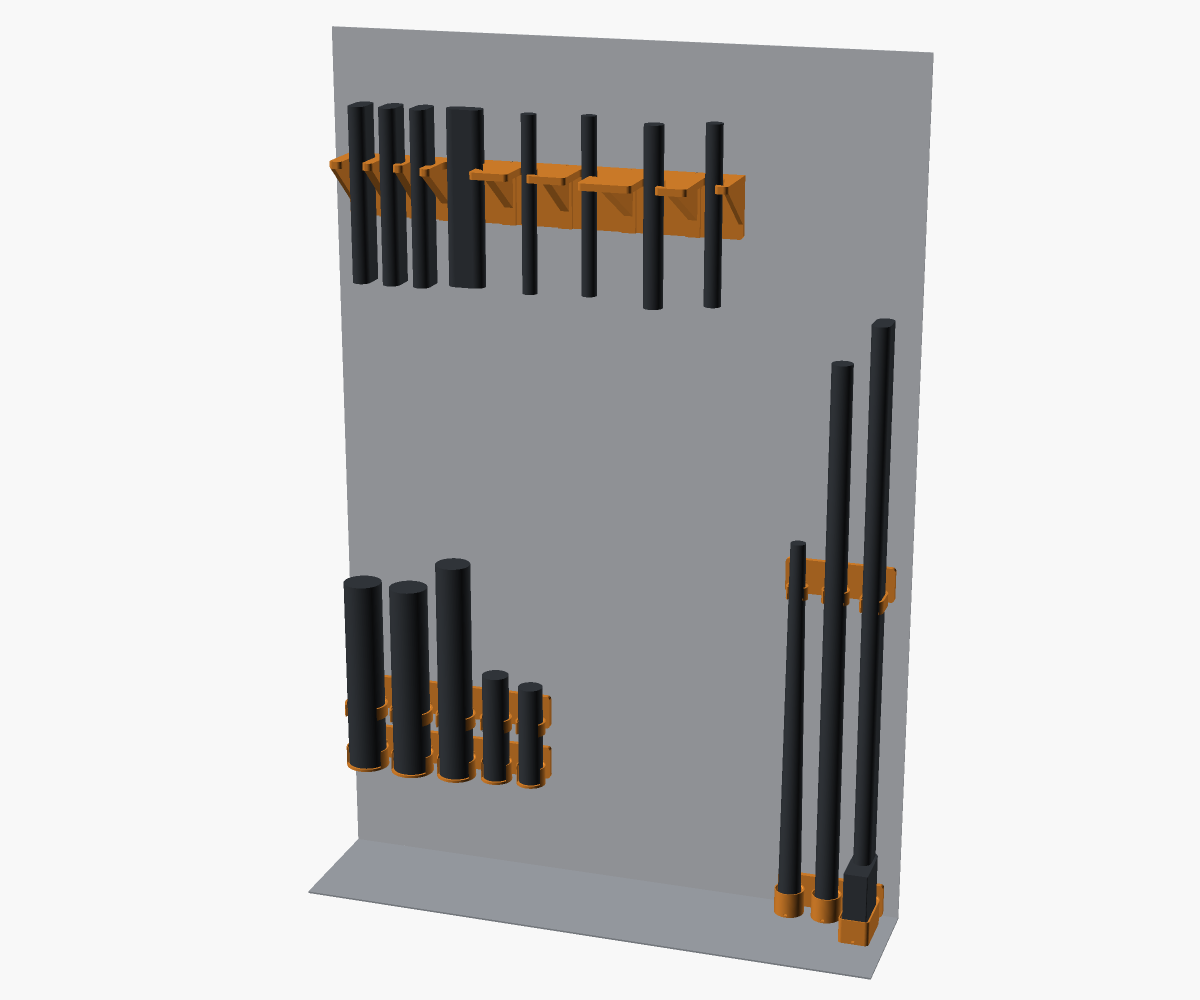
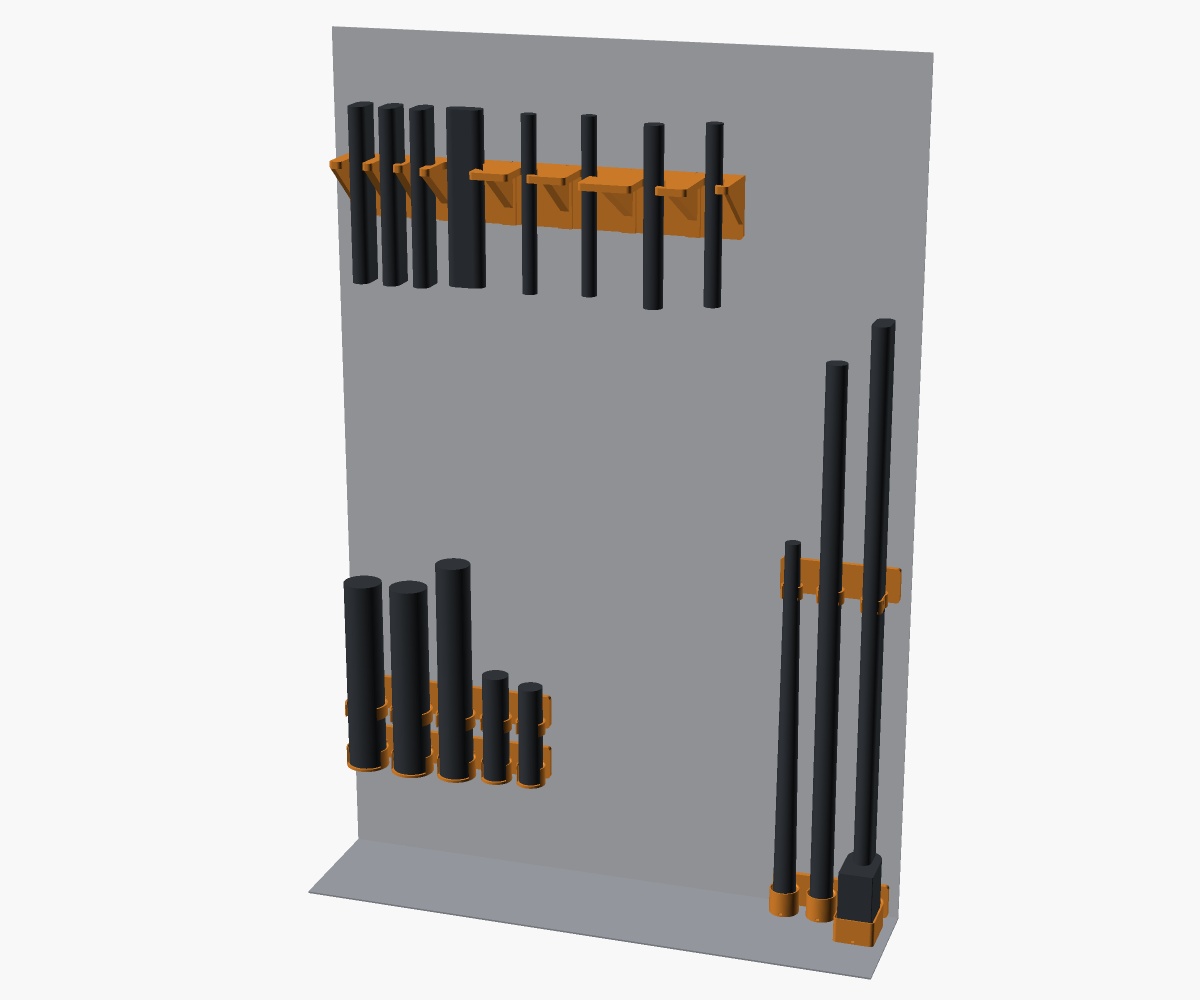
Barrel holder: wider B25 cup, figure 8 B25 clip, clip test prints
The first B25 cup was sized for a 28 mm monoblock; the barrel set is 40
mm at its widest. The B25 clip becomes a figure 8 (eight() in
lib/holders.scad) with a waist that traps the inner barrel and a
smaller outer lobe that wraps the outer one. The printed clips were all
too loose, so barrel_clip_test.scad prints three sizes per barrel from
the real clip geometry. count_magnets leaves *_test files out.

Changed region(s): [[0.6167, 0.341, 0.74, 0.961], [0.74, 0.558, 0.7708, 0.589]]

diff --git a/scripts/count_magnets.py b/scripts/count_magnets.py
@@ -8,6 +8,7 @@ So the count always matches what the models actually cut.
 
 Usage:
     scripts/count_magnets.py                  # every build in cad/my_safe
+                                              # (test prints, *_test.scad, left out)
     scripts/count_magnets.py cad/safe/*.scad  # any models
 """
 
@@ -32,7 +33,8 @@ def count(scad: Path, args, td: str) -> int:
 
 
 def main(argv):
-    files = [Path(a) for a in argv[1:]] or sorted((ROOT / "cad" / "my_safe").glob("*.scad"))
+    files = [Path(a) for a in argv[1:]] or sorted(
+        p for p in (ROOT / "cad" / "my_safe").glob("*.scad") if not p.stem.endswith("_test"))
     total = 0
     with tempfile.TemporaryDirectory() as td:
         for scad in files:

diff --git a/CLAUDE.md b/CLAUDE.md
@@ -58,7 +58,11 @@ neodymium magnets on the back so nothing is drilled into the safe.
   lib/magnets.scad, which handles both modes.
 - Holder slot sizes are a diameter or [width, depth] for oblong items
   (an over and under pair stacked front to back), via sx/sy/bore2d in
-  lib/holders.scad. Round and oblong slots mix in one row.
+  lib/holders.scad. Round and oblong slots mix in one row. A clip for an
+  over and under pair can also be a figure 8, eight() in holders.scad:
+  two lobes with a waist that pinches in between the barrels. It is not
+  convex, so anything that hulls a bore hulls bore2d(s, k) piece by
+  piece (bore_pieces).
 - Efficiency: print time, plastic and magnets no more than needed, no
   fewer. Back plates are one solid back_t thick (the magnet plus a
   back_skin floor to glue and index against, thicker by magnet_out), so
@@ -107,7 +111,9 @@ neodymium magnets on the back so nothing is drilled into the safe.
   Keep personal values here, never in a generic model's defaults.
   Customizer presets (.json) cannot do this job: a preset must match the
   type and list length of the model's defaults and is silently ignored
-  otherwise, so it cannot change the slot count.
+  otherwise, so it cannot change the slot count. Test prints (several
+  sizes of a part to find a fit) are `<name>_test.scad` here; regen
+  exports them, count_magnets leaves them out of the safe's total.
 - `cad/calibration/`: gauges for calibrated fits (magnet_pocket_gauge,
   dovetail_gauge) and fit_gauge, which slices the real holder and rack
   geometry so users can test their own gear cheaply. fit_gauge reuses
